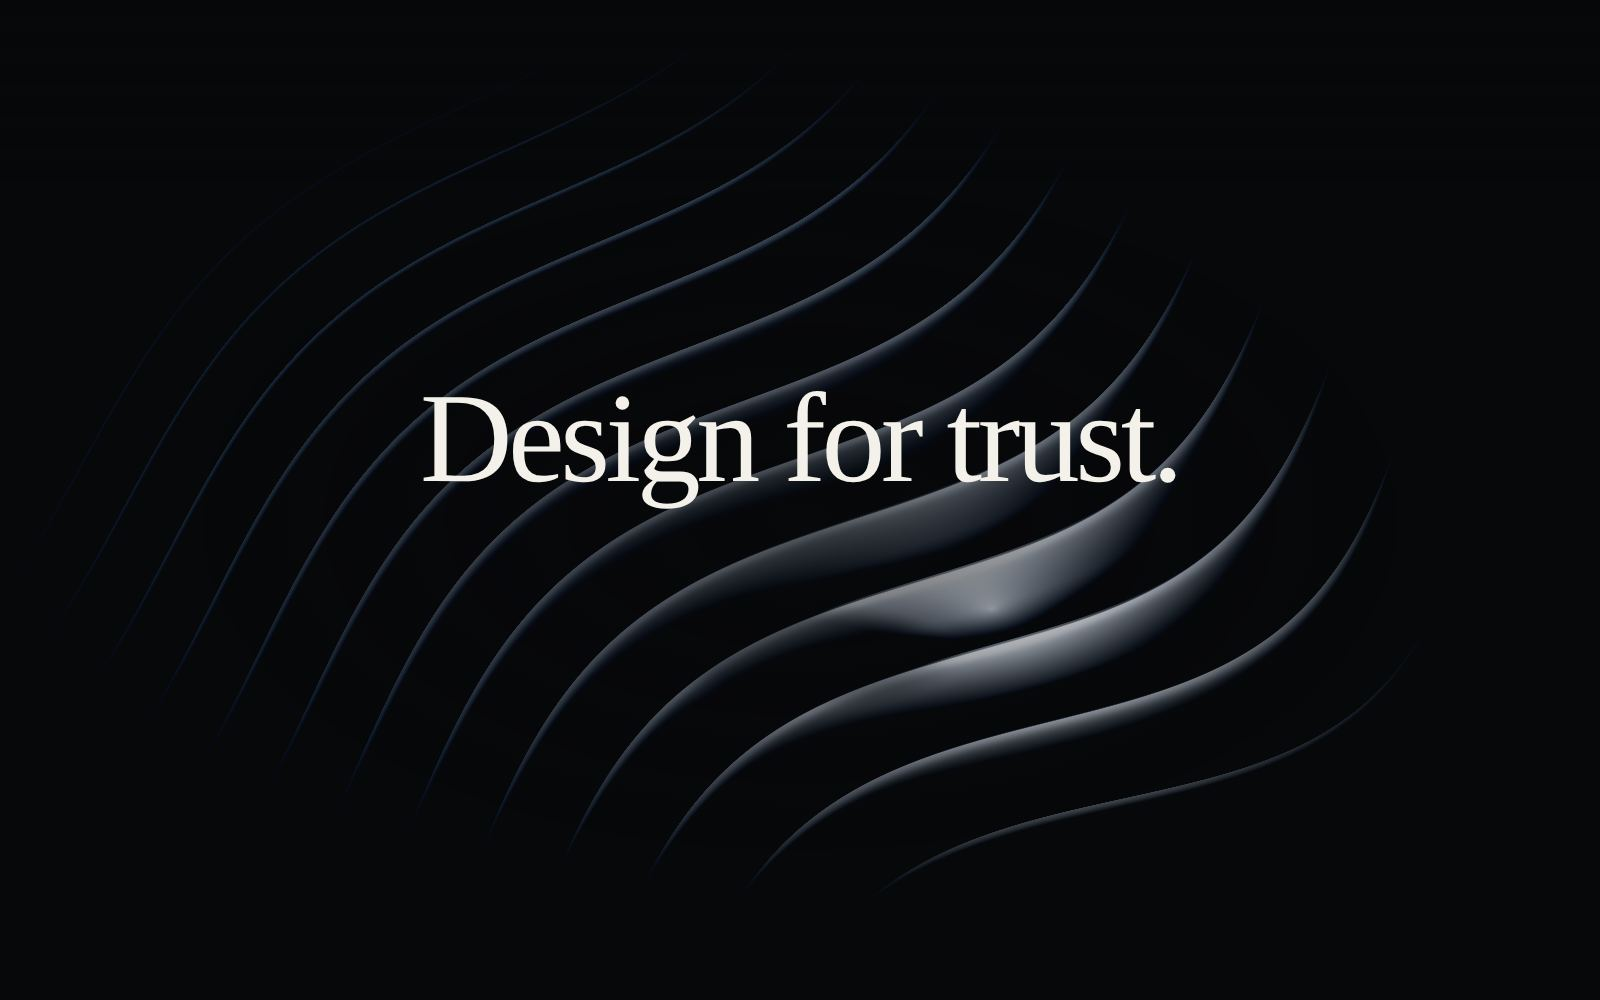
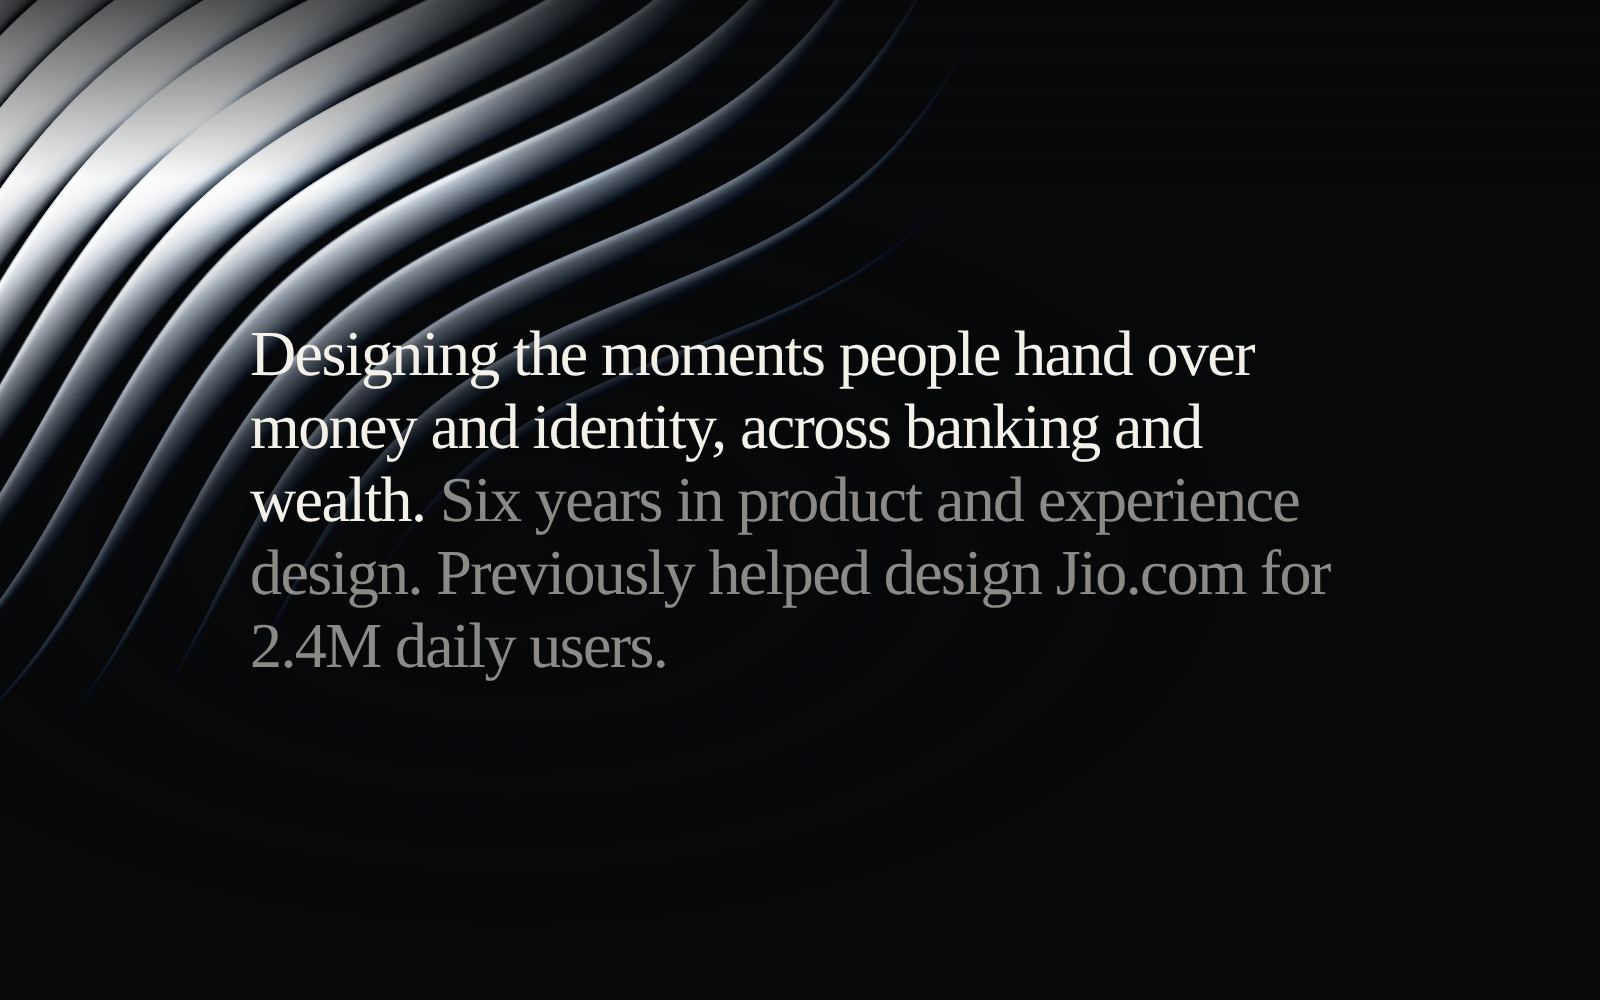
Hero: statement layout, identity nav, Selected work link; drop engineer narrative
Claude-Session: https://claude.ai/code/session_01Q1rBnzgiCVDHivr4N4NzPv

diff --git a/index.html b/index.html
@@ -7,12 +7,12 @@
 <!-- FONTS: replace this link with the one from the Type & Grid Lab "Copy tokens" output -->
 <link rel="preload" href="assets/fonts/inter-tight-latin-400-normal.woff2" as="font" type="font/woff2" crossorigin>
 <link rel="icon" href="assets/img/favicon.svg" type="image/svg+xml">
-<meta name="description" content="Aniket Shrivastava designs the moments people hand over money and identity, then builds them in code. Product designer for banking, wealth and AI systems, Pune.">
+<meta name="description" content="Aniket Shrivastava designs the moments people hand over money and identity. Experience designer across banking and wealth, Pune.">
 <meta name="robots" content="noindex, nofollow"><!-- PREVIEW: remove this line at public launch -->
 <meta name="theme-color" content="#07080a">
 <meta property="og:type" content="website">
 <meta property="og:title" content="Aniket Shrivastava, product designer">
-<meta property="og:description" content="I design the moments people hand over money and identity. Then I build them in code.">
+<meta property="og:description" content="Designing the moments people hand over money and identity, across banking and wealth.">
 <meta property="og:image" content="assets/img/og.jpg">
 <meta name="twitter:card" content="summary_large_image">
 <script>
@@ -51,7 +51,7 @@
   --font-display: Georgia, "Times New Roman", serif;
   --font-body: "Inter Tight", system-ui, sans-serif;
   --font-mono: "JetBrains Mono", ui-monospace, monospace;
-  --fs-display: clamp(3rem, 1.2394rem + 7.5117vw, 8rem);
+  --fs-display: clamp(1.875rem, 1.1268rem + 3.1925vw, 4rem);
   --fs-display-2: clamp(2.625rem, 1.4366rem + 5.0704vw, 6rem);
   --fs-h2: clamp(2.1875rem, 1.5493rem + 2.7230vw, 4rem);
   --fs-stat: clamp(2rem, 1.5599rem + 1.8779vw, 3.25rem);
@@ -68,11 +68,11 @@
   --fw-strong: 600;
   --fw-medium: 500;
   --fw-body: 400;
-  --lh-display: 0.98;
+  --lh-display: 1.1;
   --lh-heading: 1.02;
   --lh-title: 1.12;
   --lh-body: 1.5;
-  --ls-display: -0.035em;
+  --ls-display: -0.025em;
   --ls-heading: -0.03em;
   --ls-title: -0.02em;
   --ls-label: 0.16em;
@@ -106,26 +106,23 @@ body { margin: 0; color: var(--paper); font-family: var(--font-body); font-weigh
 #cv { position: fixed; inset: 0; width: 100vw; height: 100vh; display: block; z-index: 2; pointer-events: none; }
 .scrim { position: absolute; inset: 0; z-index: 0; pointer-events: none;
   background:
-    radial-gradient(ellipse 52% 46% at 50% 52%, color-mix(in srgb, var(--void) 62%, transparent), transparent 72%),
+    radial-gradient(ellipse 62% 52% at 32% 55%, color-mix(in srgb, var(--void) 62%, transparent), transparent 72%),
     linear-gradient(180deg, color-mix(in srgb, var(--void) 70%, transparent) 0%, transparent 18%); }
 nav, .center, .foot { position: relative; z-index: 1; }
-nav { display: flex; align-items: center; justify-content: space-between; gap: 16px; padding: 22px var(--page-margin); }
-.mark { font-family: var(--font-display); font-size: var(--fs-mark); letter-spacing: -0.02em; color: var(--paper); text-decoration: none; }
+nav { display: flex; align-items: center; justify-content: space-between; gap: 16px; width: 100%; max-width: var(--page-max); margin: 0 auto; padding: 22px var(--page-margin); } /* same column as the statement below */
+.mark { font-family: var(--font-body); font-weight: var(--fw-medium); font-size: var(--fs-button); color: var(--paper); text-decoration: none; min-height: 44px; display: inline-flex; align-items: center; min-width: 0; }
 .links { display: flex; gap: clamp(14px, 3vw, 32px); }
-.links a { color: color-mix(in srgb, var(--paper) 72%, transparent); text-decoration: none; font-size: var(--fs-small); min-height: 44px; display: inline-flex; align-items: center; }
+.links a { color: color-mix(in srgb, var(--paper) 72%, transparent); text-decoration: none; font-size: var(--fs-button); min-height: 44px; display: inline-flex; align-items: center; }
 .links a:hover { color: var(--paper); }
-.center { display: grid; place-items: center; text-align: center; padding: 0 var(--page-margin); pointer-events: none; }
+.center { display: grid; align-items: center; width: 100%; max-width: var(--page-max); margin: 0 auto; padding: 0 var(--page-margin); pointer-events: none; }
 /* load-in: the hero copy zooms in with the blinds (the blinds zoom inside the shader) */
 @keyframes heroZoom { from { transform: scale(var(--hero-zoom-from, .94)); } }
-.copy { animation: heroZoom var(--hero-zoom-dur, 2.2s) cubic-bezier(.16, 1, .3, 1) both; }
+.copy { animation: heroZoom var(--hero-zoom-dur, 2.2s) cubic-bezier(.16, 1, .3, 1) both; transform-origin: 0 50%; }
 @media (prefers-reduced-motion: reduce) { .copy { animation: none; } }
-.copy { display: grid; justify-items: center; gap: clamp(14px, 2.4vh, 22px); max-width: 52rem; }
+.copy { max-width: 21em; font-size: var(--fs-display); }
 .copy a { pointer-events: auto; }
-.eyebrow { display: inline-flex; align-items: center; gap: 12px; margin: 0; font-family: var(--font-mono); font-size: var(--fs-label); font-weight: var(--fw-medium); letter-spacing: var(--ls-label); text-transform: uppercase; color: color-mix(in srgb, var(--paper) 66%, transparent); }
-.rule { width: 26px; height: 1px; background: color-mix(in srgb, var(--signal) 70%, transparent); }
-h1 { margin: 0; font-family: var(--font-display); font-weight: var(--fw-display); font-size: var(--fs-display); line-height: var(--lh-display); letter-spacing: var(--ls-display); text-wrap: balance; }
-.lede { margin: 0; max-width: 38ch; font-size: var(--fs-lead); line-height: var(--lh-body); color: color-mix(in srgb, var(--paper) 76%, transparent); text-wrap: pretty; }
-.actions { display: flex; flex-wrap: wrap; justify-content: center; gap: 12px 20px; margin-top: 6px; }
+h1 { margin: 0; font-family: var(--font-display); font-weight: var(--fw-display); font-size: var(--fs-display); line-height: var(--lh-display); letter-spacing: var(--ls-display); text-wrap: pretty; }
+h1 .after { color: color-mix(in srgb, var(--paper) 56%, transparent); }
 .primary { display: inline-flex; align-items: center; gap: 6px; min-height: 48px; padding: 0 24px; border-radius: 999px; background: var(--signal); color: var(--btn-ink); font-weight: var(--fw-strong); font-size: var(--fs-button); text-decoration: none;
   box-shadow: 0 1px 0 rgba(255,255,255,.4) inset, 0 12px 32px -14px color-mix(in srgb, var(--signal) 70%, transparent); transition: transform 160ms ease, background 160ms ease; }
 .primary:hover { transform: translateY(-1px); background: color-mix(in srgb, var(--signal) 85%, white); }
@@ -136,8 +133,9 @@ h1 { margin: 0; font-family: var(--font-display); font-weight: var(--fw-display)
 [data-cta="glass"] .hero .secondary:hover { border-color: color-mix(in srgb, var(--paper) 40%, transparent); }
 .secondary:hover { color: var(--paper); text-decoration-color: color-mix(in srgb, var(--paper) 60%, transparent); }
 a:focus-visible { outline: 2px solid var(--signal); outline-offset: 4px; border-radius: 6px; }
-.foot span:nth-child(2) { text-align: center; } .foot span:last-child { text-align: right; }
-.foot { display: grid; grid-template-columns: 1fr auto 1fr; gap: 16px; padding: 20px var(--page-margin) 26px; font-family: var(--font-mono); font-size: var(--fs-micro); letter-spacing: var(--ls-label); text-transform: uppercase; color: color-mix(in srgb, var(--paper) 50%, transparent); }
+.foot { width: 100%; max-width: var(--page-max); margin: 0 auto; padding: 0 var(--page-margin) clamp(20px, 4vh, 40px); }
+.foot a { display: inline-flex; align-items: center; gap: 10px; min-height: 48px; color: var(--paper); text-decoration: none; font-size: var(--fs-lead); font-weight: var(--fw-medium); pointer-events: auto; }
+.foot a:hover { color: color-mix(in srgb, var(--paper) 80%, var(--signal)); }
 
 main { position: relative; z-index: auto; }
 .wrap { max-width: var(--page-max); margin: 0 auto; padding: 0 var(--page-margin); }
@@ -209,7 +207,7 @@ h1 .line-mask, h2 .line-mask { padding-bottom: var(--mask-room); margin-bottom: 
 .phone-frame iframe { width: 100%; height: 100%; border: 0; display: block; }
 .phone-close { position: fixed; top: 16px; right: 16px; bottom: auto; z-index: 61; }
 .phone-note { position: fixed; left: 50%; bottom: 14px; transform: translateX(-50%); z-index: 61; margin: 0; font-size: 13px; color: color-mix(in srgb, var(--cta-paper) 60%, transparent); text-align: center; width: max-content; max-width: calc(100% - 32px); }
-@media (max-width: 560px) { .eyebrow .rule { display: none; } .links a:not(:last-child) { display: none; } .foot span:first-child, .foot span:last-child { display: none; } .foot { grid-template-columns: 1fr; } }
+@media (max-width: 560px) { .links a:not(:last-child) { display: none; } .mark .long { display: none; } }
 /* reduced motion: no pinned scenes. The blinds stay behind the hero only, sections stack normally */
 @media (prefers-reduced-motion: reduce) {
   .stage-intro > section, .stage-contact > section, .stage-contact > footer { opacity: 1 !important; transform: none !important; }
@@ -266,21 +264,15 @@ h1 .line-mask, h2 .line-mask { padding-bottom: var(--mask-room); margin-bottom: 
 <section class="hero" aria-labelledby="hero-h">
   <div class="scrim" aria-hidden="true"></div>
   <nav aria-label="Main">
-    <a class="mark" href="#" data-magnetic="0.25">aniket</a>
+    <a class="mark" href="#" data-magnetic="0.15">Aniket Shrivastava<span class="long">&nbsp;is an experience designer in Pune.</span></a>
     <div class="links"><a href="#work" data-magnetic="0.3">Work</a><a href="#about" data-magnetic="0.3">About</a><a href="#contact" data-magnetic="0.3">Contact</a></div>
   </nav>
   <div class="center">
     <div class="copy">
-      <p class="eyebrow"><span class="rule" aria-hidden="true"></span>Product designer for banking, wealth and AI systems<span class="rule" aria-hidden="true"></span></p>
-      <h1 id="hero-h">Design for trust.</h1>
-      <p class="lede">I design the moments people hand over money and identity. Then I build them in code, so teams judge the real thing.</p>
-      <div class="actions">
-        <a href="#work" class="primary" data-magnetic>See the work <span aria-hidden="true">&rarr;</span></a>
-        <a href="#contact" class="secondary" data-magnetic>Get in touch</a>
-      </div>
+      <h1 id="hero-h">Designing the moments people hand over money and identity, across banking and wealth. <span class="after">Six years in product and experience design. Previously helped design Jio.com for 2.4M daily users.</span></h1>
     </div>
   </div>
-  <div class="foot"><span>Pune, India</span><span>Scroll</span><span>Six years in fintech and product</span></div>
+  <div class="foot"><a href="#work" data-magnetic="0.3">Selected work <span aria-hidden="true">&darr;</span></a></div>
 </section>
 <div class="stage stage-intro" id="stageIntro">
   <section class="block intro" id="about-intro">
@@ -314,11 +306,11 @@ h1 .line-mask, h2 .line-mask { padding-bottom: var(--mask-room); margin-bottom: 
   <section class="block" id="approach">
     <div class="wrap">
       <p class="kicker reveal">How I work</p>
-      <h2 class="reveal">From first principles to working code.</h2>
+      <h2 class="reveal">From first principles to shipped product.</h2>
       <ol class="steps">
         <li class="reveal"><span class="n">01</span><h3>Frame</h3><p>Question the brief, surface the assumptions and find the real friction.</p></li>
         <li class="reveal"><span class="n">02</span><h3>Map</h3><p>Journeys, decision moments and edge cases, before any screen.</p></li>
-        <li class="reveal"><span class="n">03</span><h3>Prototype</h3><p>Build it in code so teams react to the real thing, not a picture.</p></li>
+        <li class="reveal"><span class="n">03</span><h3>Prototype</h3><p>High-fidelity prototypes, so teams react to the real thing, not a picture.</p></li>
         <li class="reveal"><span class="n">04</span><h3>Ship</h3><p>Work alongside engineering until it holds up in production.</p></li>
       </ol>
     </div>
@@ -331,8 +323,8 @@ h1 .line-mask, h2 .line-mask { padding-bottom: var(--mask-room); margin-bottom: 
       <div class="portrait reveal">Portrait</div>
       <div>
         <p class="kicker reveal">About</p>
-        <h2 class="reveal">Designer with an engineer&rsquo;s habits.</h2>
-        <p class="reveal">Placeholder bio. Senior experience designer in Pune, working across banking and wealth management. CS engineering background, postgraduate in visual design and UX from IIT Hyderabad.</p>
+        <h2 class="reveal">Designing for decisions that carry weight.</h2>
+        <p class="reveal">Placeholder bio. Senior experience designer in Pune, working across banking and wealth management. Postgraduate in visual design and UX from IIT Hyderabad.</p>
       </div>
     </div>
   </section>
@@ -671,7 +663,7 @@ void main(){
     if (stFoot) { var fo = smooth(1.6, 1.9, tc).toFixed(3); if (stFoot._o !== fo) { stFoot._o = fo; stFoot.style.opacity = fo; } }
     contactBox.classList.toggle('live', cIn > 0.5);
   }
-  var shieldEls = { buttons: document.querySelector('.hero .actions'), copy: document.querySelector('.hero .copy') };
+  var shieldEls = { buttons: document.querySelector('.hero .foot'), copy: document.querySelector('.hero .copy') };
   function measureShield() {
     var el = shieldEls[TUNE.shieldArea] || shieldEls.buttons; if (!el) return;
     var r = el.getBoundingClientRect(), k = view.ratio || 1;
